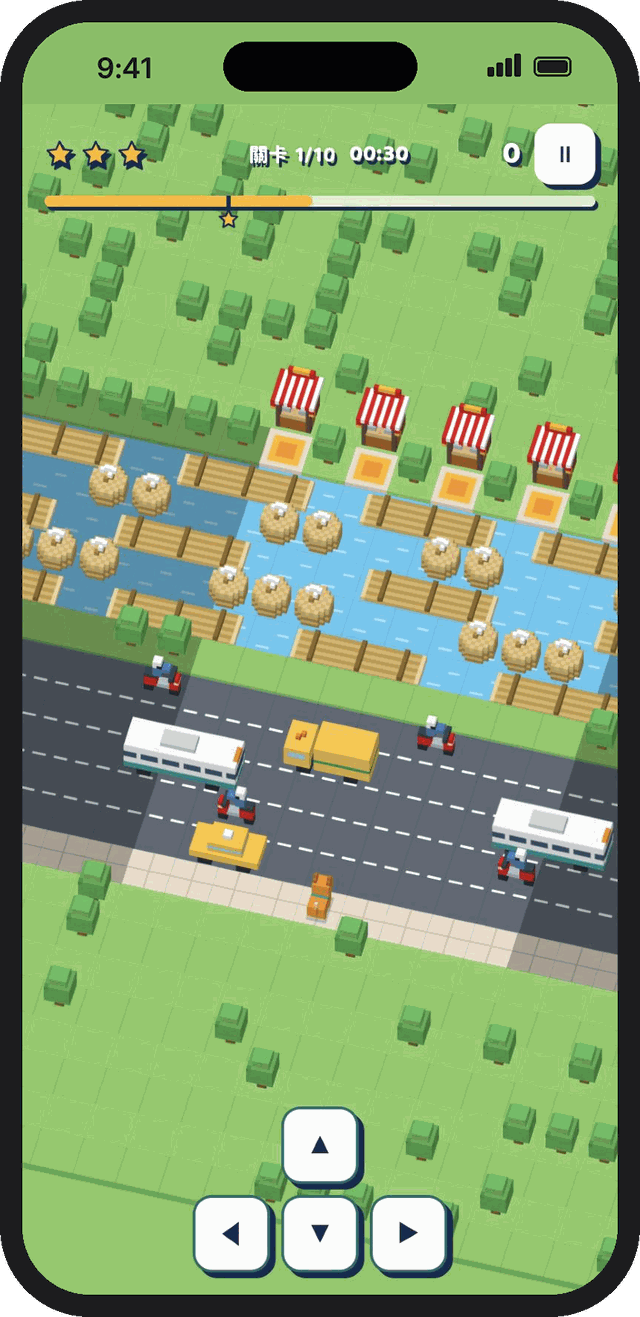
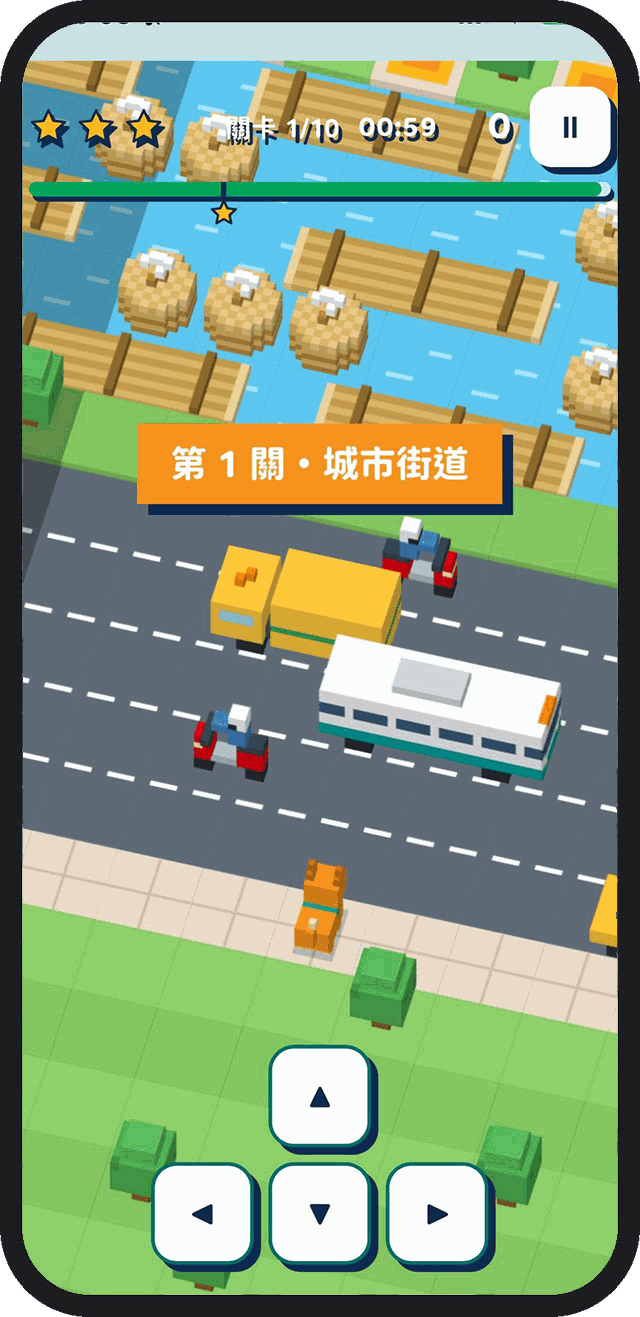
feat(fofo): 更新美食過街首頁卡片圖、介紹頁首圖與第一張截圖
- 換上新設計的卡片圖 card-fofo.jpg（取代 card-fofo.png），首頁卡片與介紹頁首圖共用
- 介紹頁功能 01 截圖換成新版（第 1 關・城市街道），手機外框外側改為透明

diff --git a/game/fofo.html b/game/fofo.html
@@ -61,7 +61,7 @@
           <a class="btn btn-primary" href="https://fofo-game.shiaupingj.workers.dev/" target="_blank" rel="noopener">立即開玩 →</a>
         </div>
       </div>
-      <div class="app-hero-media"><img src="../assets/card-fofo.png" alt="美食過街 遊戲畫面預覽"></div>
+      <div class="app-hero-media"><img src="../assets/card-fofo.jpg" alt="美食過街 遊戲畫面預覽"></div>
     </section>
 
     <section class="features">

diff --git a/index.html b/index.html
@@ -80,7 +80,7 @@
         </a>
 
         <a class="app-card theme-fofo" href="game/fofo.html">
-          <div class="preview"><img src="assets/card-fofo.png" alt="美食過街 網頁遊戲預覽" loading="lazy"></div>
+          <div class="preview"><img src="assets/card-fofo.jpg" alt="美食過街 網頁遊戲預覽" loading="lazy"></div>
           <div class="meta">
             <span class="tag">休閒遊戲</span>
             <h3>美食過街</h3>
